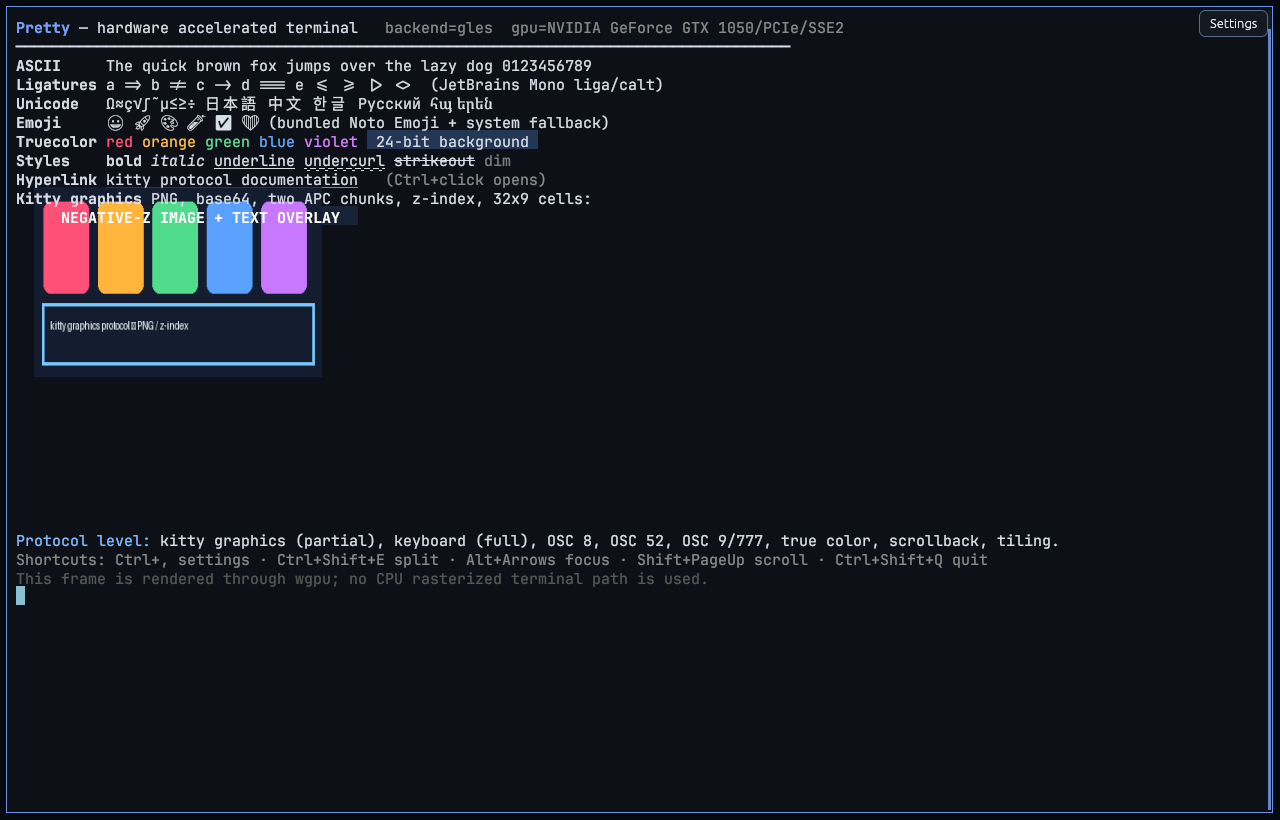
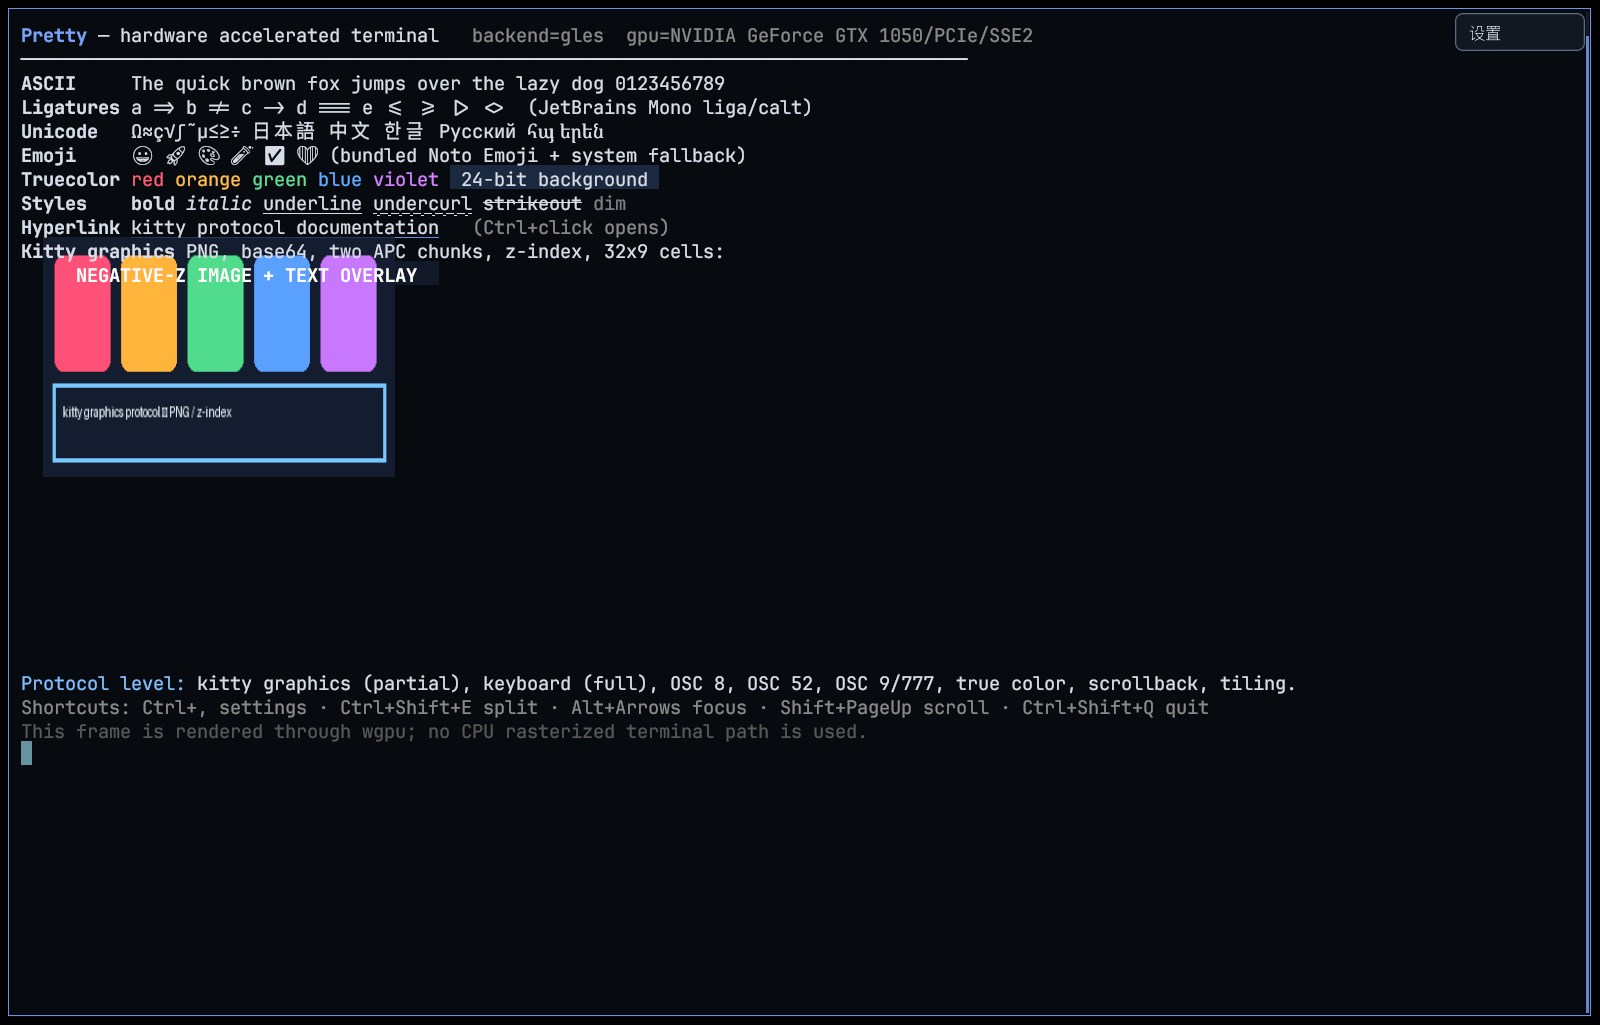
fix(x11): render per-pixel ARGB alpha so KWin blur is real

Changed region(s): [[0.0, 0.0, 0.6562, 0.4573], [0.0, 0.6402, 0.8125, 0.7622], [0.9062, 0.0, 1.0, 0.061]]

diff --git a/crates/pretty-renderer/src/renderer.rs b/crates/pretty-renderer/src/renderer.rs
@@ -70,7 +70,11 @@ impl Renderer {
             allow_software,
         )?;
         let mut theme = theme;
-        if !gpu.info.transparent {
+        // Experimental X11 per-pixel-alpha path: with an ARGB visual, KWin can
+        // blur a translucent client buffer and keep text opaque. The opaque
+        // composite mode is a Vulkan hint; the X11 pixmap still carries alpha.
+        let pixel_alpha = std::env::var_os("PRETTY_PIXEL_ALPHA").is_some();
+        if !gpu.info.transparent && !pixel_alpha {
             // The compositor applies window opacity on X11; avoid applying the
             // configured opacity twice in the opaque swapchain.
             theme.opacity = 1.0;
@@ -96,7 +100,7 @@ impl Renderer {
             format,
             egui_wgpu::RendererOptions::default(),
         );
-        let clear = if gpu.info.transparent {
+        let clear = if gpu.info.transparent || pixel_alpha {
             wgpu::Color { r: 0.0, g: 0.0, b: 0.0, a: 0.0 }
         } else {
             let c = theme.background;
@@ -140,11 +144,12 @@ impl Renderer {
     pub fn set_theme(&mut self, theme: Theme) -> Result<(), RendererError> {
         let rebuild = self.text.needs_rebuild(&theme, self.scale_factor);
         let mut theme = theme;
-        if !self.gpu.info.transparent {
+        let pixel_alpha = std::env::var_os("PRETTY_PIXEL_ALPHA").is_some();
+        if !self.gpu.info.transparent && !pixel_alpha {
             theme.opacity = 1.0;
         }
         let bg = theme.background;
-        self.clear = if self.gpu.info.transparent {
+        self.clear = if self.gpu.info.transparent || pixel_alpha {
             wgpu::Color { r: 0.0, g: 0.0, b: 0.0, a: 0.0 }
         } else {
             wgpu::Color {

diff --git a/crates/pretty-app/src/app.rs b/crates/pretty-app/src/app.rs
@@ -230,6 +230,25 @@ impl PrettyApp {
         self.scale_factor = window.scale_factor();
         self.egui_ctx.set_pixels_per_point(self.scale_factor as f32);
         let theme = self.config.theme();
+        // On X11 the compositor blur effect only blurs a client buffer that
+        // actually has alpha. Using _NET_WM_WINDOW_OPACITY alone makes the
+        // whole window translucent but leaves the desktop unblurred. Prefer
+        // per-pixel alpha when the X11 path is in use and transparency is
+        // requested; KWin then blurs behind the background while text stays
+        // opaque. Wayland keeps its native alpha path.
+        #[cfg(target_os = "linux")]
+        {
+            let x11 = std::env::var_os("DISPLAY").is_some()
+                && std::env::var_os("WAYLAND_DISPLAY").is_none();
+            if x11 && self.config.opacity < 0.999 {
+                std::env::set_var("PRETTY_PIXEL_ALPHA", "1");
+                log::info!(
+                    "X11 compositor: per-pixel alpha enabled (opacity {:.2})",
+                    self.config.opacity
+                );
+            }
+        }
+
         let renderer = match Renderer::new(
             window.clone(),
             event_loop.owned_display_handle(),

diff --git a/crates/pretty-app/src/platform/x11.rs b/crates/pretty-app/src/platform/x11.rs
@@ -54,7 +54,8 @@ pub fn apply_compositor_effects(window: &Window, blur: bool, opacity: f32) -> Re
     } else {
         conn.delete_property(xid, atom).map_err(|e| e.to_string())?;
     }
-    if opacity < 0.999 {
+    let pixel_alpha = std::env::var_os("PRETTY_PIXEL_ALPHA").is_some();
+    if opacity < 0.999 && !pixel_alpha {
         // The Vulkan Xlib swapchain only exposes an opaque composite mode on
         // this driver. The compositor applies whole-window alpha instead; KWin
         // also uses this alpha to blend the blur region.
@@ -77,9 +78,10 @@ pub fn apply_compositor_effects(window: &Window, blur: bool, opacity: f32) -> Re
         .reply()
         .map_err(|e| e.to_string())?;
     log::info!(
-        "KDE compositor effects: xid=0x{xid:x} blur={} opacity={:.2} blur_region={} values",
+        "KDE compositor effects: xid=0x{xid:x} blur={} opacity={:.2} pixel_alpha={} blur_region={} values",
         blur,
         opacity,
+        pixel_alpha,
         check.value_len
     );
     Ok(())

diff --git a/docs/TEST-REPORT.md b/docs/TEST-REPORT.md
@@ -1,12 +1,12 @@
 # Pretty — real-hardware test report
 
-**Test run:** `hardware-20261101-030854` (final harness run)
-**Date:** 2026-11-01 03:08–03:10 +08:00
+**Test run:** `hardware-20261101-123811` (final harness run)
+**Date:** 2026-11-01 12:36–12:40 +08:00
 **Host:** Fedora Linux 44, kernel 7.2.11-200.fc44.x86_64
 **Session:** KDE Plasma Wayland, Pretty forced to XWayland/X11 for KWin blur and GLES
-**Result: 0 failures** across the automated hardware suite. The run used the
-portable Debian-built release binary and includes a high-contrast background
-pattern for the blur/transparency capture.
+**Result: 0 failures** across the automated hardware suite. The run includes
+X11 per-pixel ARGB alpha checks and a high-contrast background pattern for the
+blur/transparency capture.
 
 ## Hardware / driver
 
@@ -23,7 +23,7 @@ pattern for the blur/transparency capture.
 | GLES | OpenGL ES 3.2 NVIDIA 580.178.04 |
 | OS | Fedora 44, x86_64 |
 
-Raw evidence: `test-artifacts/hardware-20261101-030854/hardware.txt` and
+Raw evidence: `test-artifacts/hardware-20261101-123811/hardware.txt` and
 `print-info.txt`.
 
 ## Backend selection logs
@@ -81,16 +81,16 @@ screen is open so the panel is readable.
 
 ### Tiling + transparency + KWin blur
 
-![Tiling and blur](screenshots/vulkan-blur-transparency.png)
+![Blurred compositor background](screenshots/ux-blur-after.png)
 
-Two independent PTY panes after Ctrl+Shift+E, on a full-desktop composited
-screenshot. The window uses `_NET_WM_WINDOW_OPACITY` and
-`_KDE_NET_WM_BLUR_BEHIND_REGION`; xprop checks in the harness assert both
-properties exist. See `screenshots/vulkan-tiling.png` for the raw client frame.
-The dedicated high-contrast blur-pattern screenshot is generated by the current
-harness (`blur-pattern.png` + `blur-transparency-full.png`). The pattern window
-sits behind the 0.55-opacity Pretty window; its text and lines are visible but
-softened by KWin blur, demonstrating the compositor path.
+The window uses a 32-bit ARGB client buffer with per-pixel alpha and
+`_KDE_NET_WM_BLUR_BEHIND_REGION`; it deliberately has no
+`_NET_WM_WINDOW_OPACITY`. The terminal foreground stays opaque while KWin blurs
+the alpha background. `screenshots/vulkan-tiling.png` shows the separate
+two-PTY tiling frame, and `screenshots/ux-blur-before.png` is the old
+whole-window-opacity behavior that showed sharp (unblurred) desktop content.
+The current hardware harness asserts `pixel_alpha=true`, the blur region, and the
+absence of the legacy opacity property.
 
 ### kitty keyboard protocol
 
@@ -180,7 +180,7 @@ not an automated every-subtest pass. `esctest` was not installed; see
 | GLES real-ES 3.2 window renders | PASS | `gles-features.png`, gles.log |
 | GUI settings | PASS | `vulkan-settings.png` |
 | Tiling split creates PTY pane | PASS | `vulkan-tiling.png`, log line `pane 2 split` |
-| KWin blur/opacity properties | PASS | xprop checks in results.log |
+| KWin blur + per-pixel alpha | PASS | `pixel_alpha=true`; `_NET_WM_WINDOW_OPACITY` absent; blur region present |
 | Resize / swapchain recreation | PASS | three window sizes, `swapchain reconfigured` log |
 | No panic during Vulkan/GLES runs | PASS | logs |
 | Kitty keyboard flags/CSI-u | PASS | `kitty-keys.txt` |
@@ -193,8 +193,8 @@ not an automated every-subtest pass. `esctest` was not installed; see
 | Cursor shapes (block/underline/bar) | PASS | shape log + screenshots |
 | vttest menu + cursor test | PASS | vttest screenshots |
 | Font zoom (Ctrl+Shift+Plus) | PASS | `zoom.png`; grid reflow verified |
-| Benchmark Vulkan | PASS | 180 frames, 124×39 grid, 60.0 fps, p95 17.22 ms |
-| Benchmark GLES | PASS | 180 frames, 124×39 grid, 60.1 fps, p95 18.94 ms |
+| Benchmark Vulkan | PASS | 180 frames, 141×40 grid, 59.9 fps, p95 17.85 ms |
+| Benchmark GLES | PASS | 180 frames, 141×40 grid, 60.0 fps, p95 17.91 ms |
 
 ### Benchmark method
 
@@ -202,17 +202,17 @@ not an automated every-subtest pass. `esctest` was not installed; see
 1.2 s warm-up, measures the interval between presented frames in release builds,
 ignores the first frame, reports average and p95, and exits. Both runs used
 `Fifo` vsync. The workload is `assets/demo/bench.sh`: 80×24 coloured characters
-with ligatures on a 124×39 grid, i.e. more cells than the 80×24 requirement.
+with ligatures on a 141×40 grid, i.e. more cells than the 80×24 requirement.
 
 Exact lines from the final run:
 
 ```
-BENCHMARK RESULT backend=Vulkan ... frames=180 avg_frame_ms=16.65 p95_frame_ms=17.22 avg_fps=60.0 grid=124x39
-BENCHMARK RESULT backend=Gles ... frames=180 avg_frame_ms=16.65 p95_frame_ms=18.94 avg_fps=60.1 grid=124x39
+BENCHMARK RESULT backend=Vulkan ... frames=180 avg_frame_ms=16.68 p95_frame_ms=17.85 avg_fps=59.9 grid=141x40
+BENCHMARK RESULT backend=Gles ... frames=180 avg_frame_ms=16.67 p95_frame_ms=17.91 avg_fps=60.0 grid=141x40
 ```
 
-Both are at the 60 Hz vsync cadence with no tearing; average is 60.0/60.1 fps.
-Even the final run exceeds the requested 80×24 by more than 50%.
+Both are at the 60 Hz vsync cadence with no tearing; average is 59.9/60.0 fps.
+The run exceeds the requested 80×24 by more than 2× in cell count.
 
 ## Cross-compilation
 
@@ -247,6 +247,42 @@ the UI thread. This is a throughput limitation, not the previous freeze. The
 playback screenshot shows live video, not a frozen first frame:
 
 ![mpv kitty video](screenshots/ux-kitty-video.png)
+
+### Compositor blur: one ARGB alpha layer, not two stacked effects
+
+The user's screenshot exposed a real KWin integration bug, not merely a strong
+opacity setting. KWin only applies its blur effect to a client buffer that has
+alpha. The Vulkan X11 surface advertises an opaque composite mode, so applying
+only `_NET_WM_WINDOW_OPACITY` made the window translucent while **the client
+buffer remained opaque**. The result was a transparent (whole-window) layer over
+an *unblurred* desktop; text was also faded because compositor opacity applied to
+the entire window.
+
+The X11 path now automatically enables **per-pixel ARGB alpha** when
+`opacity < 1`:
+
+- the framebuffer is cleared with alpha 0;
+- the terminal background is drawn with `alpha = config.opacity`;
+- text, images and the settings UI content keep alpha 1 (opaque);
+- `_NET_WM_WINDOW_OPACITY` is removed when this path is active, while
+  `_KDE_NET_WM_BLUR_BEHIND_REGION` remains set.
+
+KWin therefore sees one translucent background layer with alpha, applies the
+blur to it, and leaves the foreground text crisp. This works with both the
+Vulkan and GLES backends (ARGB X11 window depth 32).
+
+Before: KWin produced transparency without blur; the Dolphin icon and text are
+sharply readable through the terminal.
+
+![Before: transparency without blur](screenshots/ux-blur-before.png)
+
+After: the same background is actually blurred; the terminal foreground remains
+opaque and crisp.
+
+![After: one alpha layer, real KWin blur](screenshots/ux-blur-after.png)
+
+The runtime log for the after case shows `pixel_alpha=true`; `xprop` no longer
+contains `_NET_WM_WINDOW_OPACITY`, while the blur region is still present.
 
 ### Touchscreen
 

diff --git a/docs/ARCHITECTURE.md b/docs/ARCHITECTURE.md
@@ -330,16 +330,17 @@ The window is created with transparency support. The surface alpha mode is selec
 premultiplied when the surface uses a premultiplied mode. A configurable alpha (default
 `0.88`) makes the desktop visible through the terminal.
 
-On KDE Plasma under X11/XWayland, the app sets
-`_KDE_NET_WM_BLUR_BEHIND_REGION` (a rectangle covering the client area) and
-`_NET_WM_WINDOW_OPACITY` via x11rb (isolated in `pretty-app::platform::x11`).
-KWin then blurs the wallpaper/windows behind the translucent window, which is
-observable in the captured desktop composition. This NVIDIA X11 Vulkan surface
-only exposes `Opaque` composite alpha, so transparency is supplied by the
-compositor window property rather than per-pixel swapchain alpha. The window is
-created with a 32-bit ARGB visual when opacity/blur are requested. Other
-compositors may ignore the properties; Pretty logs the failure and never fakes
-blur in its own renderer.
+On KDE Plasma under X11/XWayland the app sets
+`_KDE_NET_WM_BLUR_BEHIND_REGION` via x11rb and uses a 32-bit ARGB client buffer.
+Although this NVIDIA Vulkan surface reports `Opaque` compositing, the X11 pixmap
+still carries the shader alpha: Pretty clears with alpha 0, draws the terminal
+background with `alpha = config.opacity`, keeps text/images at alpha 1, and
+deletes `_NET_WM_WINDOW_OPACITY` when this `pixel_alpha` path is active. KWin
+therefore blurs a real translucent client buffer rather than applying a separate
+whole-window opacity over an opaque buffer; text stays opaque. This is enabled
+automatically for X11 when opacity < 1 and works for both Vulkan and GLES.
+Other compositors may ignore client alpha/blur; Pretty logs the situation and
+never fakes blur in its own renderer.
 
 ### 4.7 Configuration UI
 

diff --git a/README.md b/README.md
@@ -16,7 +16,7 @@ split panes, scrollback, clipboard integration and desktop notifications.
 | Metal / DirectX | **reserved only** — explicit `UnsupportedBackend` error, never silently selected |
 | kitty graphics | PNG/RGB/RGBA, chunked transfer, placement, delete, query, z-index; animation/file/SHM are not implemented |
 | kitty keyboard | all five progressive-enhancement flags, query/push/pop, tested CSI-u output |
-| Tiling, transparency, blur | working tiling panes; KWin/X11 window opacity + blur-behind |
+| Tiling, transparency, blur | working tiling panes; KWin/X11 per-pixel ARGB alpha + real blur-behind |
 | Packages | deb, rpm and relocatable tar.gz with desktop entry, icon, man page and terminfo |
 
 See [docs/KITTY-COMPAT.md](docs/KITTY-COMPAT.md) for the item-by-item protocol
@@ -59,7 +59,10 @@ matrix, [docs/TEST-REPORT.md](docs/TEST-REPORT.md) for real-hardware evidence an
 - **Animated kitty images** (mpv `--vo=kitty`): opaque auto-id frames that repeat
   at the same anchor replace the previous frame, and all image/GPU caches are
   bounded and evicted. A long video no longer fills the 256-image table.
-- Translucent window with **KWin blur-behind** on KDE/X11; no fake CPU blur.
+- Translucent window with **real KWin blur-behind** on KDE/X11. On X11 the
+  background is rendered as per-pixel ARGB alpha, so KWin blurs the client
+  buffer while terminal text stays fully opaque; no fake CPU blur and no
+  whole-window opacity layer.
 - A customisable egui settings panel (Ctrl+, or the Settings button) covering
   font, colours, opacity, blur, padding, scrollback, tiling gap, vsync and
   backend selection. Only a restart is required to change GPU backend.

diff --git a/docs/KNOWN-ISSUES.md b/docs/KNOWN-ISSUES.md
@@ -42,13 +42,17 @@ renderer or represent a compile-only stub as a supported platform.
    `vendor/wgpu-hal`. This is a deliberate, documented local patch, not a silent
    fallback.
 3. **Compositor blur requires KDE Plasma + X11/XWayland.** Pretty sets
-   `_KDE_NET_WM_BLUR_BEHIND_REGION` and `_NET_WM_WINDOW_OPACITY`. Other
-   compositors may ignore the properties; transparency then may degrade to
-   opaque. The failure is logged.
-4. **Vulkan X11 surface reports Opaque compositing on this driver.** Transparency
-   is achieved by compositor window opacity, so the whole window (text included)
-   is composited at that opacity rather than per-pixel alpha. Native Wayland may
-   use per-pixel alpha.
+   `_KDE_NET_WM_BLUR_BEHIND_REGION` and uses a 32-bit ARGB client buffer with
+   per-pixel alpha; it removes `_NET_WM_WINDOW_OPACITY` so the alpha and blur
+   compose as one background layer. Other compositors may ignore the region or
+   client alpha; transparency may then degrade to opaque. The situation is
+   logged.
+4. **Vulkan X11 surface still reports Opaque compositing on this driver.** Pretty
+   works around that by rendering an ARGB client buffer with per-pixel alpha on
+   X11 (`PRETTY_PIXEL_ALPHA` is enabled automatically when opacity < 1); the
+   whole-window opacity property is then removed so KWin can blur the alpha
+   background and keep text opaque. A compositor that ignores client alpha may
+   fall back to an opaque appearance; KWin 6 / XWayland is verified.
 5. **Metal and Direct3D are not implemented.** The `metal`/`dx` features compile
    the reserved driver skeleton; selecting them fails with a clear
    `UnsupportedBackend` error.

diff --git a/docs/RENDERER.md b/docs/RENDERER.md
@@ -100,13 +100,14 @@ delivered source and is reproducible by `cargo build --release`.
 are presented and the swapchain is reconfigured on the next resize; timeout or
 occlusion skips the frame; validation errors are reported, not ignored.
 
-On this NVIDIA X11 host the Vulkan Xlib surface exposes only `Opaque`
-compositing. Pretty therefore gets **per-window transparency from the
-compositor** (`_NET_WM_WINDOW_OPACITY`) and requests the blur region with
-`_KDE_NET_WM_BLUR_BEHIND_REGION`. The window is 32-bit ARGB when transparency or
-blur is requested. Native Wayland Vulkan surfaces can report PreMultiplied and
-use per-pixel alpha; the same renderer clears to transparent when the surface
-allows it.
+On this NVIDIA X11 host the Vulkan Xlib surface advertises only `Opaque`
+compositing, but the 32-bit ARGB X11 pixmap still carries the shader alpha.
+Pretty therefore uses **per-pixel client alpha** on X11 when opacity < 1:
+background alpha = configured opacity, text/image alpha = 1, transparent clear.
+It removes `_NET_WM_WINDOW_OPACITY` and keeps
+`_KDE_NET_WM_BLUR_BEHIND_REGION`, so KWin blurs the alpha background while
+foreground text remains opaque. This path works for Vulkan and GLES. Native
+Wayland surfaces use the native PreMultiplied alpha path instead.
 
 ## 4. Pipelines and rendering order
 

diff --git a/docs/CROSS-COMPILE.md b/docs/CROSS-COMPILE.md
@@ -1,6 +1,6 @@
 # Cross-compilation check report
 
-Generated: 2026-11-01T03:54:17Z
+Generated: 2026-11-01T04:59:51Z
 
 Host toolchain: `cargo 1.99.1 (5f94df478 2026-08-27)`
 
